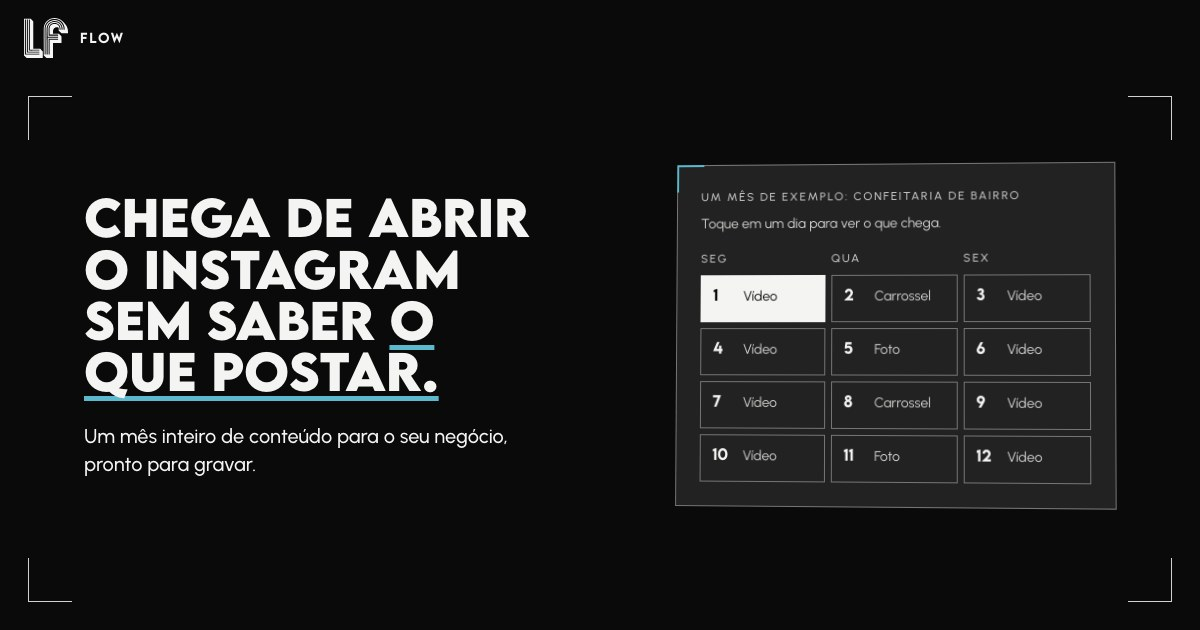
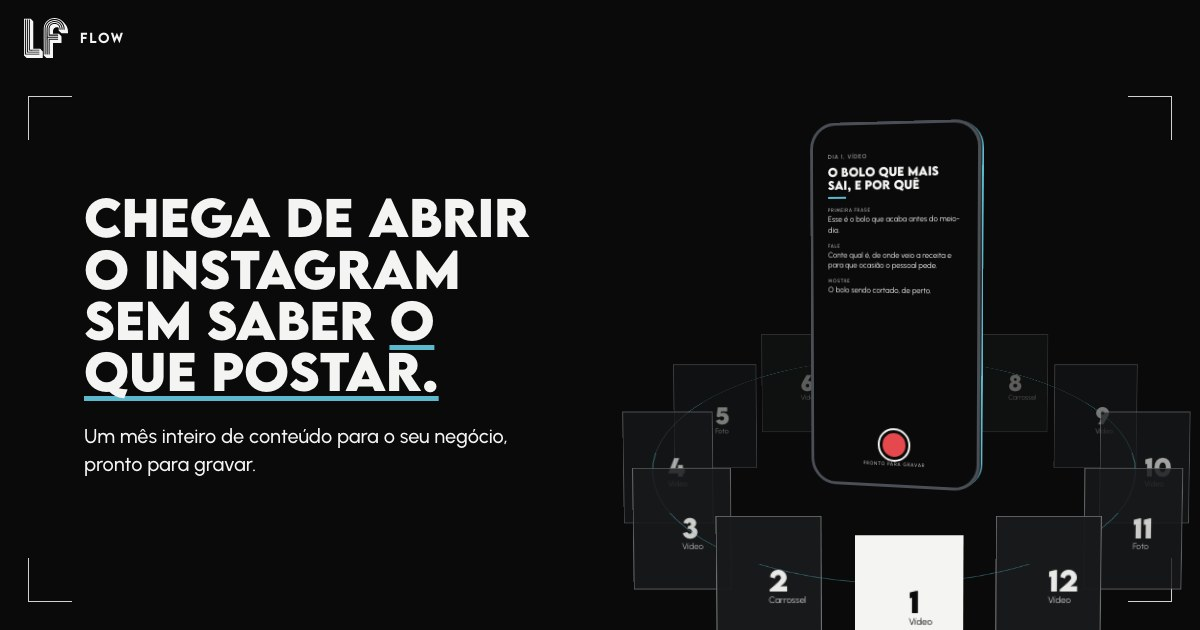
LP do LF Flow: abertura com celular em 3D e os conteúdos do mês em órbita

diff --git a/flow/flow.css b/flow/flow.css
@@ -153,28 +153,42 @@ a:focus-visible, button:focus-visible, summary:focus-visible { outline: 2px soli
 .condicoes { margin-top: var(--e-2); font-size: 1rem; color: var(--tinta-2); }
 
 /* O mês de exemplo */
-.mes-cena { perspective: 1100px; min-width: 0; }
-.mes { background: var(--fundo); display: grid; gap: var(--e-2); padding: var(--e-3); }
-.cena-escura .mes { background: rgba(244, 244, 242, .1); }
-.mes { --linha: rgba(244, 244, 242, .4); }
-.mes-dias, .mes-grade { display: grid; grid-template-columns: repeat(3, 1fr); gap: 6px; }
-.mes-dias { margin-bottom: -8px; }
-.dia {
-  display: flex; align-items: baseline; gap: 10px; min-height: 48px; padding: 10px 12px; text-align: left; cursor: pointer;
-  background: none; border: 1px solid var(--linha); border-radius: 0; color: var(--tinta-2);
-  font-size: .875rem; line-height: 1.2; transition: border-color 200ms, background-color 200ms, color 200ms;
+/* O mês de exemplo: um celular em 3D com o roteiro do dia na tela e os 12 conteúdos do mês em órbita.
+   Tudo em CSS 3D (sem biblioteca): o flow.js só calcula a posição de cada cartão a cada quadro. */
+.orbita-cena { position: relative; min-width: 0; display: grid; justify-items: center; gap: var(--e-2); perspective: 1300px; --fone-l: 208px; --card-l: 62px; --orb-h: 540px; --orb-y: 160px; }
+.orbita { position: relative; width: 100%; height: var(--orb-h); transform-style: preserve-3d; transform: rotateX(calc(-4deg + var(--gy, 0deg))) rotateY(var(--gx, 0deg)); }
+.anel { position: absolute; left: 50%; top: calc(50% + var(--orb-y)); width: calc(var(--raio, 150px) * 2); height: calc(var(--raio, 150px) * 2); margin: calc(var(--raio, 150px) * -1) 0 0 calc(var(--raio, 150px) * -1); border: 1px solid var(--cor-ciano); border-radius: 50%; opacity: .5; transform: rotateX(72deg); pointer-events: none; }
+.fone {
+  position: absolute; left: 50%; top: 44%; width: var(--fone-l); aspect-ratio: 250 / 520;
+  transform: translate(-50%, -50%) translateY(var(--sobe, 0px)) rotateY(var(--fy, -16deg));
+  transform-style: preserve-3d; border-radius: calc(var(--fone-l) * .15);
 }
-.dia-numero { font-family: var(--fonte-titulo); font-weight: 500; font-size: .9375rem; color: var(--tinta); min-width: 1.4em; }
-.dia:hover { border-color: var(--tinta); }
+/* espessura do aparelho: duas camadas atrás da tela; a de trás leva a luz de recorte em ciano */
+.fone-corpo { position: absolute; inset: 0; border-radius: inherit; background: #2C2F34; transform: translateZ(-7px); }
+.fone-corpo + .fone-corpo { transform: translateZ(-14px); border-right: 2px solid var(--cor-ciano); background: #1E2024; }
+.fone-tela { position: absolute; inset: 0; border-radius: inherit; overflow: hidden; container-type: inline-size; display: flex; flex-direction: column; padding: 15% 9% 9%; background: var(--cor-preto); border: 3px solid #4A4F56; }
+.mes-peca { flex: 1; min-height: 0; }
+.peca-tipo { font-size: 4.2cqw; font-weight: 500; letter-spacing: .14em; text-transform: uppercase; color: var(--tinta-3); }
+.peca-titulo { margin: 3cqw 0 0; padding-bottom: 5cqw; font-family: var(--fonte-titulo); font-weight: 700; font-size: 8.2cqw; line-height: 1.16; text-transform: uppercase; color: var(--tinta); background: linear-gradient(var(--cor-ciano), var(--cor-ciano)) 0 100% / 14cqw 2px no-repeat; }
+.peca-linhas { display: grid; gap: 4.5cqw; margin-top: 6cqw; font-size: 5.6cqw; line-height: 1.36; color: var(--tinta); }
+.peca-linhas li { display: grid; gap: 1cqw; }
+.peca-linhas b { font-size: 3.6cqw; font-weight: 500; letter-spacing: .12em; text-transform: uppercase; color: var(--tinta-3); }
+.fone-rec { display: grid; justify-items: center; gap: 3.4cqw; font-size: 3.6cqw; font-weight: 500; letter-spacing: .14em; text-transform: uppercase; color: var(--tinta-3); }
+.fone-rec b { width: 17cqw; height: 17cqw; border-radius: 50%; background: var(--cor-rec); outline: 2px solid var(--cor-gelo); outline-offset: 3px; }
+/* os 12 dias: cartões em órbita. A posição (transform) e a opacidade vêm do flow.js */
+.mes-grade { position: absolute; inset: 0; transform-style: preserve-3d; }
+.dia {
+  position: absolute; left: 50%; top: calc(50% + var(--orb-y)); width: var(--card-l); aspect-ratio: 4 / 5; margin: calc(var(--card-l) * -.625) 0 0 calc(var(--card-l) * -.5); overflow: hidden; white-space: nowrap;
+  display: flex; flex-direction: column; justify-content: space-between; align-items: flex-start; padding: 10% 10% 12%; text-align: left; cursor: pointer;
+  background: #17191B; border: 1px solid rgba(244, 244, 242, .42); border-radius: 0; color: var(--tinta-2);
+  font-size: calc(var(--card-l) * .12); line-height: 1.1; transition: background-color 250ms, border-color 250ms, color 250ms;
+}
+.dia-numero { font-family: var(--fonte-titulo); font-weight: 700; font-size: calc(var(--card-l) * .36); line-height: 1; color: var(--tinta); }
+.dia:hover { border-color: var(--cor-gelo); }
 .dia[aria-pressed="true"] { background: var(--cor-gelo); border-color: var(--cor-gelo); color: var(--cor-preto); }
 .dia[aria-pressed="true"] .dia-numero { color: var(--cor-preto); }
-.mes-peca { border-top: 1px solid var(--linha); padding-top: var(--e-2); min-height: 13.5rem; }
-.peca-tipo { font-size: .75rem; font-weight: 500; letter-spacing: .14em; text-transform: uppercase; color: var(--tinta-3); }
-.peca-titulo { margin: 6px 0 12px; font-family: var(--fonte-titulo); font-weight: 500; font-size: 1.0625rem; line-height: 1.25; text-transform: uppercase; color: var(--tinta); }
-.peca-linhas { display: grid; gap: 8px; font-size: .9375rem; line-height: 1.45; }
-.peca-linhas li { display: grid; grid-template-columns: 6.5rem minmax(0, 1fr); gap: 12px; align-items: baseline; }
-.peca-linhas b { font-size: .6875rem; font-weight: 500; letter-spacing: .12em; text-transform: uppercase; color: var(--tinta-3); }
-.mes-dica { font-size: .875rem; color: var(--tinta-2); margin-top: -8px; }
+.mes-dica { font-size: .875rem; color: var(--tinta-2); text-align: center; }
+.orbita-cena .rotulo { text-align: center; }
 
 /* ---------- Duas colunas: título de um lado, conteúdo do outro ---------- */
 .duas { display: grid; gap: var(--e-4); }
@@ -337,7 +351,6 @@ a:focus-visible, button:focus-visible, summary:focus-visible { outline: 2px soli
   .passos a { height: 44px; min-height: 0; padding: 0; font-size: 0; border-top: 0; border-bottom: 2px solid var(--lt-fraco); }
   .passos a[aria-current="true"] { border-bottom-color: var(--lt-forte); }
   .passos .cursor { top: auto; bottom: -4px; }
-  .dia { flex-direction: column; gap: 2px; padding: 8px 10px; }
   .cookies { padding: 8px 12px; gap: 10px; font-size: .8125rem; }
   .cookies .btn { padding: 10px 12px; font-size: .875rem; }
   .passos { --lt-fraco: rgba(244, 244, 242, .5); }
@@ -346,7 +359,7 @@ a:focus-visible, button:focus-visible, summary:focus-visible { outline: 2px soli
   .abertura-texto .btn { width: 100%; justify-content: space-between; }
   /* no celular só a abertura e o fechamento ocupam a tela; as outras cenas têm a altura do conteúdo */
   .cena:not(.abertura):not(.fechamento) { min-height: 0; padding: var(--e-5) 0; }
-  .peca-linhas li { grid-template-columns: 1fr; gap: 2px; }
+  .abertura-grade { gap: var(--e-4); }
 }
 
 /* ---------- Tablet e computador ---------- */
@@ -368,12 +381,5 @@ a:focus-visible, button:focus-visible, summary:focus-visible { outline: 2px soli
   .abertura-grade { grid-template-columns: minmax(0, 1.08fr) minmax(0, .92fr); align-items: center; gap: var(--e-5); }
   .duas { grid-template-columns: 5fr 7fr; column-gap: var(--e-5); align-items: start; }
   .planos { max-width: 62rem; }
-  /* O painel do mês flutua de leve, inclinado em 3D; --gx e --gy acompanham o mouse */
-  .mes { transform-origin: 100% 50%; transform: rotateY(calc(-3deg + var(--gx, 0deg))) rotateX(calc(1.5deg + var(--gy, 0deg))); transition: transform 500ms var(--curva); }
-  .com-movimento .mes.entra.visivel { animation-name: assenta-mes; }
-  @keyframes assenta-mes {
-    0%   { opacity: 0; transform: translate3d(9%, 0, 0) rotateY(-14deg) scale(1.03); filter: blur(6px); }
-    55%  { opacity: 1; transform: translate3d(-.6%, 0, 0) rotateY(-4.5deg) rotateX(1.5deg); filter: none; }
-    100% { transform: rotateY(-3deg) rotateX(1.5deg); }
-  }
+  .orbita-cena { --fone-l: 230px; --card-l: 88px; --orb-h: 660px; --orb-y: 152px; }
 }

diff --git a/flow/flow.js b/flow/flow.js
@@ -1,5 +1,5 @@
 // LF Flow — landing page
-// O mês de exemplo da abertura, o tracking dos botões, o aviso de cookies (o pixel só carrega com aceite),
+// O mês de exemplo da abertura (celular em 3D com os conteúdos em órbita), o tracking dos botões, o aviso de cookies (o pixel só carrega com aceite),
 // a linha do tempo e a entrada das cenas.
 
 document.addEventListener('DOMContentLoaded', () => {
@@ -37,11 +37,59 @@ document.addEventListener('DOMContentLoaded', () => {
     const lista = Object.assign(document.createElement('ul'), { className: 'peca-linhas' });
     item.linhas.forEach(([rotulo, texto]) => {
       const li = document.createElement('li');
-      li.append(Object.assign(document.createElement('b'), { textContent: `${rotulo}: ` }), texto);
+      li.append(Object.assign(document.createElement('b'), { textContent: rotulo }), texto);
       lista.append(li);
     });
     peca.append(tipo, titulo, lista);
     grade.querySelectorAll('.dia').forEach((b, n) => b.setAttribute('aria-pressed', String(n === i)));
+  };
+
+  // ---- A órbita ----
+  // Os 12 cartões giram em volta do celular. O dia escolhido vem para a frente e o roteiro dele aparece na tela.
+  // Sozinha, a órbita avança um dia a cada 3,2 s; quando a pessoa escolhe um dia, ela espera 15 s antes de voltar a andar.
+  let dia = 0, escolhe = (i) => { dia = i; mostra(i); };
+  const orbita = () => {
+    const cena = document.getElementById('orbita');
+    const fone = cena.querySelector('.fone');
+    const cartoes = [...grade.querySelectorAll('.dia')];
+    const n = cartoes.length, inclina = 72 * Math.PI / 180;
+    const parado = window.matchMedia('(prefers-reduced-motion: reduce)').matches;
+    let pos = 0, visivel = true, pausaAte = 0, t0 = performance.now(), ultimoPasso = t0, raio = 150;
+    const mede = () => { raio = Math.min(cena.clientWidth * (cena.clientWidth < 420 ? .47 : .56), cena.clientHeight * .5); cena.style.setProperty('--raio', `${raio.toFixed(0)}px`); };
+    const sai = (x) => 1 - Math.pow(1 - Math.min(1, Math.max(0, x)), 3);
+    const desenha = (agora) => {
+      const t = (agora - t0) / 1000;
+      const entrada = parado ? 1 : sai((t - .15) / 1.3);
+      let d = dia - pos; d -= Math.round(d / n) * n;            // caminho mais curto até o dia escolhido
+      pos += parado ? d : d * .07;
+      cartoes.forEach((c, i) => {
+        const a = Math.PI / 2 + (i - pos) * (2 * Math.PI / n);
+        const x = Math.cos(a) * raio * entrada, p = Math.sin(a) * raio * entrada;
+        c.style.transform = `translate3d(${x.toFixed(1)}px, ${(p * Math.cos(inclina)).toFixed(1)}px, ${(p * Math.sin(inclina)).toFixed(1)}px)`;
+        c.style.opacity = (entrada * (.3 + .7 * (Math.sin(a) + 1) / 2)).toFixed(2);
+      });
+      fone.style.setProperty('--fy', `${(-16 + (parado ? 0 : Math.sin(t * .45) * 7) + (1 - entrada) * 70).toFixed(2)}deg`);
+      fone.style.setProperty('--sobe', `${((1 - entrada) * 90).toFixed(1)}px`);
+      fone.style.opacity = Math.min(1, entrada * 1.6).toFixed(2);
+    };
+    const laco = (agora) => {
+      if (visivel && !document.hidden) {
+        if (!parado && agora > pausaAte && agora - ultimoPasso > 3200) { ultimoPasso = agora; dia = (dia + 1) % n; mostra(dia); }
+        desenha(agora);
+      }
+      if (!parado) requestAnimationFrame(laco);
+    };
+    escolhe = (i, daPessoa) => {
+      dia = i; mostra(i);
+      if (daPessoa) pausaAte = performance.now() + 15000;
+      if (parado) desenha(performance.now());
+    };
+    cena.addEventListener('pointerenter', () => { pausaAte = Math.max(pausaAte, performance.now() + 4000); });
+    cena.addEventListener('focusin', () => { pausaAte = performance.now() + 15000; });
+    window.addEventListener('resize', () => { mede(); if (parado) desenha(performance.now()); });
+    if ('IntersectionObserver' in window) new IntersectionObserver(([e]) => { visivel = e.isIntersecting; }).observe(cena);
+    mede(); mostra(0);
+    if (parado) desenha(performance.now()); else requestAnimationFrame(laco);
   };
 
   if (grade && peca) {
@@ -53,10 +101,10 @@ document.addEventListener('DOMContentLoaded', () => {
         Object.assign(document.createElement('span'), { className: 'dia-numero', textContent: String(i + 1) }),
         Object.assign(document.createElement('span'), { textContent: item.tipo }),
       );
-      botao.addEventListener('click', () => mostra(i));
+      botao.addEventListener('click', () => escolhe(i, true));
       grade.append(botao);
     });
-    mostra(0);
+    orbita();
   }
 
   // ---- Aviso de cookies e Meta Pixel ----
@@ -171,7 +219,7 @@ document.addEventListener('DOMContentLoaded', () => {
   }, { rootMargin: '0px 0px -10% 0px', threshold: 0.1 });
   document.querySelectorAll('.revela, .entra').forEach((el) => observador.observe(el));
 
-  // Painel do mês: inclina de leve acompanhando o mouse, só em telas com cursor
+  // A órbita inclina de leve acompanhando o mouse, só em telas com cursor
   const palco = document.getElementById('abertura');
   if (palco && window.matchMedia('(hover: hover) and (pointer: fine)').matches) {
     let q = 0;

diff --git a/flow/index.html b/flow/index.html
@@ -29,7 +29,7 @@
 <link rel="preload" href="assets/fonts/lemonmilk-bold.woff2" as="font" type="font/woff2" crossorigin>
 <link rel="preload" href="assets/fonts/urbanist-latin.woff2" as="font" type="font/woff2" crossorigin>
 
-<link rel="stylesheet" href="flow.css?v=2026-10-13f">
+<link rel="stylesheet" href="flow.css?v=2026-10-13h">
 <!-- O Meta Pixel "LP FLOW" (2266283787124186) é carregado pelo flow.js, só depois do aceite no aviso de cookies. -->
 </head>
 <body>
@@ -59,14 +59,29 @@
     </div>
 
     <!-- O mês de exemplo: o que o cliente recebe, mostrado de verdade -->
-    <div class="mes-cena">
-      <div class="painel mes entra" role="group" aria-labelledby="mes-titulo">
-        <p class="rotulo" id="mes-titulo">Um mês de exemplo: confeitaria de bairro</p>
-        <p class="mes-dica" aria-hidden="true">Toque em um dia para ver o que chega.</p>
-        <div class="mes-dias rotulo" aria-hidden="true"><span>Seg</span><span>Qua</span><span>Sex</span></div>
+    <div class="orbita-cena">
+      <p class="rotulo" id="mes-titulo">Um mês de exemplo: confeitaria de bairro</p>
+      <div class="orbita" id="orbita" role="group" aria-labelledby="mes-titulo">
+        <div class="anel" aria-hidden="true"></div>
+        <div class="fone">
+          <div class="fone-corpo" aria-hidden="true"></div>
+          <div class="fone-corpo" aria-hidden="true"></div>
+          <div class="fone-tela">
+            <div class="mes-peca" id="mes-peca">
+              <p class="peca-tipo">Dia 1, vídeo</p>
+              <p class="peca-titulo">O bolo que mais sai, e por quê</p>
+              <ul class="peca-linhas">
+                <li><b>Primeira frase</b>Esse é o bolo que acaba antes do meio-dia.</li>
+                <li><b>Fale</b>Conte qual é, de onde veio a receita e para que ocasião o pessoal pede.</li>
+                <li><b>Mostre</b>O bolo sendo cortado, de perto.</li>
+              </ul>
+            </div>
+            <p class="fone-rec" aria-hidden="true"><b></b>Pronto para gravar</p>
+          </div>
+        </div>
         <div class="mes-grade" id="mes-grade" role="group" aria-label="As 12 ideias do mês. Selecione uma para ver."></div>
-        <div class="mes-peca" id="mes-peca" aria-live="polite"></div>
       </div>
+      <p class="mes-dica" aria-hidden="true">Toque em um dia para ver o que chega.</p>
     </div>
   </div>
 </section>
@@ -283,6 +298,6 @@
   </div>
 </div>
 
-<script src="flow.js?v=2026-10-13e" defer></script>
+<script src="flow.js?v=2026-10-13h" defer></script>
 </body>
 </html>
